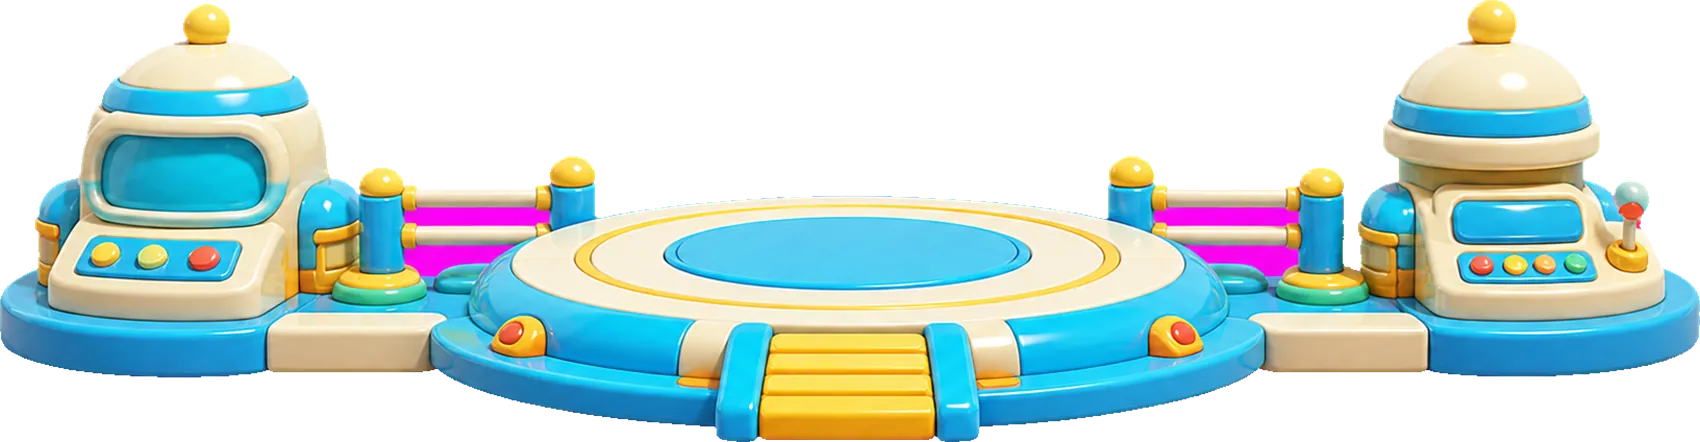
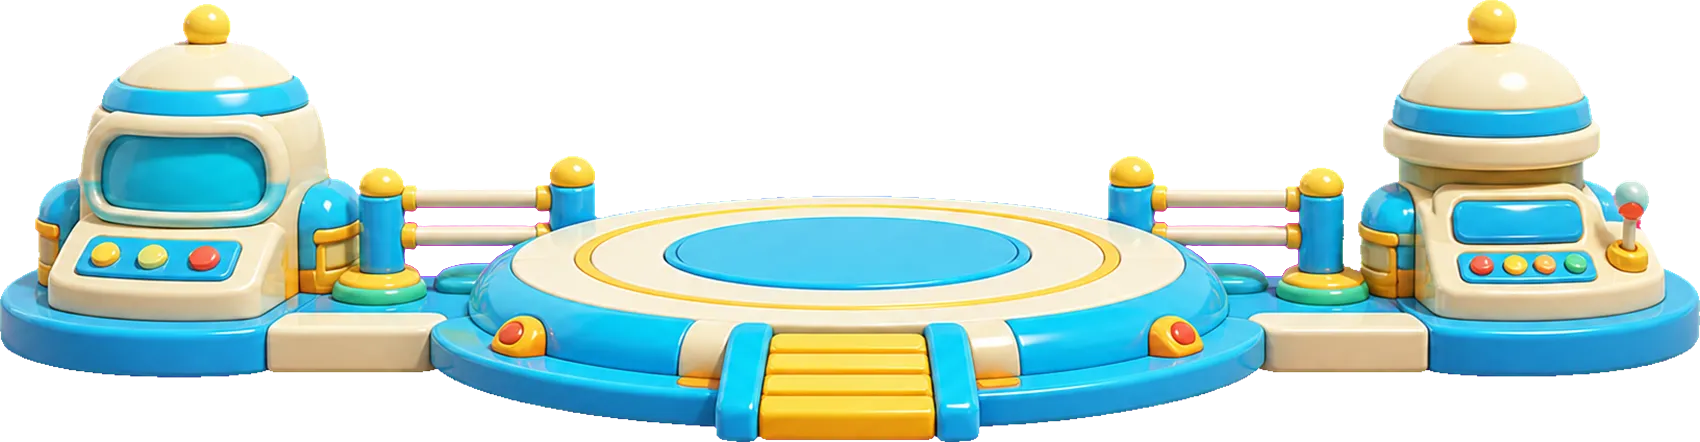
遊戲1 新美術降視覺刺激：生成節奏放慢（掉落物1.3s/景物4.5s＋上限4）、粒子煙火減半、震動搖擺閃爍全面變柔、速度線減淡、天空改粉彩色調、驚喜秀副本減量；修發射台護欄縫洋紅殘留（全域去背）

diff --git a/遊戲1-火箭冒險/index-新美術.html b/遊戲1-火箭冒險/index-新美術.html
@@ -117,7 +117,7 @@
 
 <script type="module">
 /* ================== 基本設定 ================== */
-const ART_VER = 1;
+const ART_VER = 2;
 const canvas = document.getElementById('game');
 const ctx = canvas.getContext('2d');
 let W = 0, H = 0, DPR = Math.min(window.devicePixelRatio || 1, 2);
@@ -344,11 +344,11 @@ function say(key, { gap = 2500, priority = 1 } = {}) {
 /* ================== 高度層設定 ================== */
 /* heightStars（累積新星星）決定高度層：炸彈震掉持有星星，但高度永不倒退 */
 const BANDS = [
-  { name: '糖果城市', icon: '🏙', at: 0,  sky: ['#4fa8e8', '#8fd0f4', '#c9ecfa'], decor: [['FX002', .35], ['FX003', .65]] },
-  { name: '鬆軟雲海', icon: '☁', at: 10, sky: ['#3d97e0', '#7cc4ef', '#e8f6fd'], decor: [['FX001', .6], ['FX002', .25], ['FX003', .15]] },
-  { name: '彩虹高空', icon: '🌈', at: 20, sky: ['#2e7fd6', '#5fb3e8', '#aee4f8'], decor: [['FX004', .3], ['FX001', .7]] },
-  { name: '閃亮外太空', icon: '🪐', at: 30, sky: ['#0d1b5e', '#1c3a94', '#3a63c4'], decor: [['FX007', .5], ['FX005', .5]] },
-  { name: '月球糖果星系', icon: '🌕', at: 40, sky: ['#101347', '#232a7a', '#3f55b5'], decor: [['FX006', .35], ['FX008', .4], ['FX007', .15], ['FX005', .1]] },
+  { name: '糖果城市', icon: '🏙', at: 0,  sky: ['#7ab8e6', '#aad9f2', '#dcf0fa'], decor: [['FX002', .35], ['FX003', .65]] },
+  { name: '鬆軟雲海', icon: '☁', at: 10, sky: ['#7fc0e8', '#abd9f0', '#eef7fc'], decor: [['FX001', .6], ['FX002', .25], ['FX003', .15]] },
+  { name: '彩虹高空', icon: '🌈', at: 20, sky: ['#6fa9dc', '#95c7e9', '#c9e7f6'], decor: [['FX004', .3], ['FX001', .7]] },
+  { name: '閃亮外太空', icon: '🪐', at: 30, sky: ['#28356f', '#3a4f9c', '#5f79c4'], decor: [['FX007', .5], ['FX005', .5]] },
+  { name: '月球糖果星系', icon: '🌕', at: 40, sky: ['#2b2f5e', '#3f478c', '#6270b8'], decor: [['FX006', .35], ['FX008', .4], ['FX007', .15], ['FX005', .1]] },
 ];
 const bandOf = hs => hs >= 40 ? 4 : hs >= 30 ? 3 : hs >= 20 ? 2 : hs >= 10 ? 1 : 0;
 const BAND_SAY = { 1: 's8', 2: 's9', 3: 's10', 4: 's11' };
@@ -538,7 +538,7 @@ function startCountdown() {
     } else {
       el.style.display = 'none';
       state.phase = 'launch';
-      state.t = 0; state.shake = 14;
+      state.t = 0; state.shake = 8;
       sfxLaunch();
       for (let k = 0; k < 6; k++) fxPuff(state.rocketX * W + (Math.random() - 0.5) * VMIN() * 0.3, H * 0.9, VMIN() * (0.12 + Math.random() * 0.1));
     }
@@ -550,7 +550,7 @@ function startCountdown() {
 function rocketH() { return VMIN() * 0.24; }
 function noBombs() { return state.transT > 0 || state.giftShow || state.paradeT > 0 || state.invulnT > 0 || state.spin > 0; }
 function spawnItem(now) {
-  const interval = state.boostLevel > 0.5 ? 450 : 850;
+  const interval = state.boostLevel > 0.5 ? 700 : 1300;
   if (now - lastItemSpawn < interval) return;
   lastItemSpawn = now;
   // 教學：前兩顆星固定出現在火箭附近、左右交替
@@ -578,11 +578,11 @@ function spawnItem(now) {
 function spawnDecor(now) {
   const band = BANDS[state.band];
   const bigOnScreen = decors.filter(d => ['FX006', 'FX007', 'FX008'].includes(d.id)).length;
-  if (now - lastDecorSpawn < 2600) return;
+  if (now - lastDecorSpawn < 4500 || decors.length >= 4) return;
   lastDecorSpawn = now;
   let r = Math.random(), id = band.decor[band.decor.length - 1][0];
   for (const [d, w] of band.decor) { if (r < w) { id = d; break; } r -= w; }
-  if (['FX006', 'FX007', 'FX008'].includes(id) && bigOnScreen >= 2) return;
+  if (['FX006', 'FX007', 'FX008'].includes(id) && bigOnScreen >= 1) return;
   const big = ['FX004', 'FX006', 'FX007', 'FX008'].includes(id);
   const side = Math.random() < 0.5;
   decors.push({
@@ -591,8 +591,8 @@ function spawnDecor(now) {
     y: -0.3,
     h: VMIN() * (big ? 0.34 + Math.random() * 0.14 : 0.10 + Math.random() * 0.07),
     sp: big ? 0.28 + Math.random() * 0.08 : 0.38 + Math.random() * 0.1,
-    drift: (Math.random() - 0.5) * 12,
-    rot: 0, rotSp: (Math.random() - 0.5) * 0.15,
+    drift: (Math.random() - 0.5) * 7,
+    rot: 0, rotSp: (Math.random() - 0.5) * 0.08,
     flip: Math.random() < 0.5,
     alpha: big ? 0.9 : 1,
   });
@@ -612,12 +612,12 @@ function fxAdd(id, fb, x, y, h, o = {}) {
   fxs.push({ id, fb, x, y, h, vx: o.vx || 0, vy: o.vy || 0, rot: o.rot || 0, rotSp: o.rotSp || 0, life: o.life || 1, maxLife: o.life || 1, grow: o.grow || 0, flip: o.flip || false, orbit: o.orbit || null, stick: o.stick || false });
 }
 function fxPuff(x, y, h) { fxAdd('FX101', '💨', x, y, h, { vy: -20, life: 0.9, grow: 0.6, rotSp: (Math.random() - 0.5) * 0.6 }); }
-function fireworks(n = 5) {
+function fireworks(n = 3) {
   for (let k = 0; k < n; k++) {
     setTimeout(() => {
       const x = W * (0.12 + Math.random() * 0.76), y = H * (0.1 + Math.random() * 0.32);
       fxAdd('FX104', '🎆', x, y, VMIN() * (0.16 + Math.random() * 0.14), { life: 1.1, grow: 1.2, rot: Math.random() * 6.28 });
-      burst(x, y, 24);
+      burst(x, y, 14);
       sfxFirework();
     }, k * 220);
   }
@@ -634,18 +634,18 @@ function startGiftShow() {
   if (kind === 'rainbow') {
     fxAdd('FX105', '🌈', rx, ry, VMIN() * 0.26, { life: 3, orbit: { r: R, sp: 2.6, ph: 0 } });
   } else if (kind === 'icecream') {
-    for (let i = 0; i < 6; i++) {
+    for (let i = 0; i < 4; i++) {
       const side = i % 2 ? 0.1 : 0.9;
       fxAdd('FX106', '🍦', W * side + (Math.random() - 0.5) * W * 0.1, H * (0.2 + i * 0.12), VMIN() * 0.12, { life: 3, vy: 30 * (i % 2 ? 1 : -1), rotSp: (Math.random() - 0.5) * 2 });
     }
   } else if (kind === 'puppy') {
     fxAdd('FX107', '🐶', rx, ry, VMIN() * 0.16, { life: 3, orbit: { r: R * 1.1, sp: 3.2, ph: Math.PI } });
   } else if (kind === 'balloon') {
-    for (let i = 0; i < 4; i++) fxAdd('FX002', '🎈', -W * 0.08 - i * W * 0.14, H * (0.25 + (i % 2) * 0.14), VMIN() * (0.13 + Math.random() * 0.05), { life: 4, vx: W * 0.22, vy: Math.sin(i) * 12 });
+    for (let i = 0; i < 3; i++) fxAdd('FX002', '🎈', -W * 0.08 - i * W * 0.14, H * (0.25 + (i % 2) * 0.14), VMIN() * (0.13 + Math.random() * 0.05), { life: 4, vx: W * 0.22, vy: Math.sin(i) * 12 });
   } else if (kind === 'ufo') {
     fxAdd('FX005', '🛸', W * 1.1, H * 0.3, VMIN() * 0.2, { life: 4, vx: -W * 0.2, vy: 14, rotSp: 0.4 });
   } else { // starrain：純表演星星雨，不影響數字
-    for (let i = 0; i < 12; i++) fxAdd('IT001', '⭐', W * Math.random(), -H * 0.1 - Math.random() * H * 0.3, VMIN() * (0.05 + Math.random() * 0.04), { life: 4, vy: H * 0.28, rotSp: (Math.random() - 0.5) });
+    for (let i = 0; i < 7; i++) fxAdd('IT001', '⭐', W * Math.random(), -H * 0.1 - Math.random() * H * 0.3, VMIN() * (0.05 + Math.random() * 0.04), { life: 4, vy: H * 0.28, rotSp: (Math.random() - 0.5) });
   }
 }
 
@@ -653,8 +653,8 @@ function startGiftShow() {
 function bombHit(ix, iy) {
   sfxBoom();
   fxAdd('FX102', '💥', ix, iy, VMIN() * 0.3, { life: 0.7, grow: 1.6 });
-  burst(ix, iy, 22, { color: '#ff8844' });
-  state.shake = 22;
+  burst(ix, iy, 12, { color: '#ff8844' });
+  state.shake = 10;
   state.spin = Math.PI * 6;          // 翻滾三圈
   state.dizzyT = 2.2;
   state.invulnT = 2.0;
@@ -674,7 +674,7 @@ function bombHit(ix, iy) {
 function collectStar(it, ix, iy) {
   state.starsHeld++;
   sfxCollect();
-  burst(ix, iy, 12, { color: '#ffdd44' });
+  burst(ix, iy, 7, { color: '#ffdd44' });
   if (!state.firstCatch) { state.firstCatch = true; say('s4', { gap: 0 }); }
   if (it.noHeight) return;             // 撿回的星星只補持有數
   state.heightStars++;
@@ -684,9 +684,9 @@ function collectStar(it, ix, iy) {
     const nb = bandOf(hs);
     if (nb !== state.band) startBandTransition(nb);
     else if (hs === 50) startParade();
-    else { sfxMilestone(); fireworks(4); say('s13', { gap: 5000 }); }
+    else { sfxMilestone(); fireworks(2); say('s13', { gap: 5000 }); }
     // 換色：第 20、40，之後每 20 循環
-    if (hs % 20 === 0) { sfxUpgrade(); state.shake = Math.max(state.shake, 8); }
+    if (hs % 20 === 0) { sfxUpgrade(); state.shake = Math.max(state.shake, 5); }
   }
 }
 function startBandTransition(nb) {
@@ -697,15 +697,15 @@ function startBandTransition(nb) {
   state.transT = 3.2;
   state.hiccupDone = false;
   for (let i = items.length - 1; i >= 0; i--) if (items[i].type === 'bomb') items.splice(i, 1);
-  sfxMilestone(); fireworks(5);
+  sfxMilestone(); fireworks(3);
   say(BAND_SAY[nb] || 's13', { gap: 0, priority: 2 });
 }
 function startParade() {
   state.paradeT = 6;
   for (let i = items.length - 1; i >= 0; i--) if (items[i].type === 'bomb') items.splice(i, 1);
-  sfxMilestone(); fireworks(8);
+  sfxMilestone(); fireworks(4);
   say('s12', { gap: 0, priority: 2 });
-  for (let i = 0; i < 10; i++) fxAdd('IT001', '⭐', W * Math.random(), -H * (0.1 + Math.random() * 0.4), VMIN() * (0.05 + Math.random() * 0.04), { life: 5, vy: H * 0.26, rotSp: (Math.random() - 0.5) });
+  for (let i = 0; i < 6; i++) fxAdd('IT001', '⭐', W * Math.random(), -H * (0.1 + Math.random() * 0.4), VMIN() * (0.05 + Math.random() * 0.04), { life: 5, vy: H * 0.26, rotSp: (Math.random() - 0.5) });
   for (const [i, id] of [['FX006', '🌕'], ['FX008', '🍭'], ['FX007', '🪐'], ['FX005', '🛸']].entries()) {
     fxAdd(id[0], id[1], (i % 2 ? W * 1.12 : -W * 0.12), H * (0.15 + i * 0.12), VMIN() * 0.2, { life: 5.5, vx: (i % 2 ? -1 : 1) * W * 0.16 });
   }
@@ -822,7 +822,7 @@ function update(dt, now) {
   for (let i = items.length - 1; i >= 0; i--) {
     const it = items[i];
     it.y += fall * dt;
-    const ix = it.x * W + Math.sin(state.t * 2 + it.wob) * 14;
+    const ix = it.x * W + Math.sin(state.t * 2 + it.wob) * 8;
     const iy = it.y * H;
     const dx = ix - rx, dy = iy - ry;
     if (!state.paused && Math.hypot(dx, dy) < catchR) {
@@ -834,7 +834,7 @@ function update(dt, now) {
         continue;
       }
       items.splice(i, 1);
-      if (it.type === 'gift') { sfxGift(); burst(ix, iy, 10, { emoji: ['🌈', '🦄', '🍭', '🎈', '🍦', '⚽'] }); startGiftShow(); }
+      if (it.type === 'gift') { sfxGift(); burst(ix, iy, 6, { emoji: ['🌈', '🦄', '🍭', '🎈', '🍦', '⚽'] }); startGiftShow(); }
       else collectStar(it, ix, iy);
     } else if (it.y > 1.15) {
       items.splice(i, 1);
@@ -928,7 +928,7 @@ function draw(now) {
   // 太空小星點（外太空以上）
   if (state.band >= 3) {
     for (const s of bgStars) {
-      ctx.globalAlpha = 0.4 + 0.6 * Math.abs(Math.sin(state.t * 2 + s.tw));
+      ctx.globalAlpha = 0.25 + 0.3 * Math.abs(Math.sin(state.t * 1.2 + s.tw));
       ctx.fillStyle = '#fff';
       const len = state.boostLevel * 18;
       if (len > 2) ctx.fillRect(s.x * W, s.y * H, s.s, s.s + len);
@@ -962,10 +962,10 @@ function draw(now) {
 
   // 掉落物
   for (const it of items) {
-    const ix = it.x * W + Math.sin(state.t * 2 + it.wob) * 14;
+    const ix = it.x * W + Math.sin(state.t * 2 + it.wob) * 8;
     const iy = it.y * H;
     if (it.type === 'bomb') {
-      ctx.globalAlpha = 0.25 + 0.15 * Math.sin(state.t * 8);
+      ctx.globalAlpha = 0.20 + 0.10 * Math.sin(state.t * 4);
       ctx.fillStyle = '#ff3333';
       ctx.beginPath(); ctx.arc(ix, iy, VMIN() * 0.085, 0, Math.PI * 2); ctx.fill();
       ctx.globalAlpha = 1;
@@ -973,7 +973,7 @@ function draw(now) {
     const hh = VMIN() * (it.type === 'star' ? 0.085 : 0.105);
     sprite(it.type === 'gift' ? 'IT002' : it.type === 'bomb' ? 'OB001' : 'IT001',
       it.type === 'gift' ? '🎁' : it.type === 'bomb' ? '💣' : '⭐', ix, iy, hh,
-      { rot: Math.sin(state.t * 3 + it.wob) * 0.15 });
+      { rot: Math.sin(state.t * 2 + it.wob) * 0.07 });
   }
 
   // 火箭
@@ -993,9 +993,9 @@ function draw(now) {
 
   // 衝刺速度線
   if (state.boostLevel > 0.35) {
-    ctx.globalAlpha = (state.boostLevel - 0.35) * 0.7;
+    ctx.globalAlpha = (state.boostLevel - 0.35) * 0.4;
     ctx.strokeStyle = '#ffffff'; ctx.lineWidth = 3; ctx.lineCap = 'round';
-    for (let i = 0; i < 7; i++) {
+    for (let i = 0; i < 4; i++) {
       const lx = ((i * 0.147 + state.t * 0.9) % 1) * W;
       const ly = ((i * 0.31 + state.t * 2.2) % 1) * H;
       ctx.beginPath(); ctx.moveTo(lx, ly); ctx.lineTo(lx, ly + VMIN() * 0.09 * state.boostLevel); ctx.stroke();
@@ -1021,7 +1021,7 @@ function draw(now) {
       const iy = H * 0.72 - b * ih * 1.5;
       const active = state.band === b, passed = state.band > b;
       ctx.globalAlpha = active ? 1 : passed ? 0.75 : 0.28;
-      const sc = active ? 1.35 + Math.sin(state.t * 4) * 0.06 : 1;
+      const sc = active ? 1.22 + Math.sin(state.t * 2) * 0.03 : 1;
       emo(BANDS[b].icon, ix, iy, ih * sc);
     }
     ctx.globalAlpha = 1;
@@ -1037,7 +1037,7 @@ function draw(now) {
     }
     // 舉手示範（第 2 顆星後短暫顯示）
     if (state.heightStars === 2 && !state.boost) {
-      ctx.globalAlpha = 0.5 + 0.5 * Math.sin(state.t * 4);
+      ctx.globalAlpha = 0.55 + 0.3 * Math.sin(state.t * 2.5);
       emo('🙌', W / 2, H * 0.2, VMIN() * 0.12);
       ctx.globalAlpha = 1;
     }

diff --git a/index.html b/index.html
@@ -46,7 +46,7 @@
      新增遊戲 = 在這裡加一行；ver 是快取版本號，更新該遊戲就 +1。 */
   const GAMES = [
     { folder: '遊戲1-火箭冒險',     icon: '🚀', name: '火箭冒險',     ver: 15, release: '2026-06-05' },
-    { folder: '遊戲1-火箭冒險',     file: 'index-新美術.html', icon: '<img src="遊戲1-火箭冒險/pic/opt/CH001.webp" alt="" style="height:64px;width:auto">', name: '火箭冒險（新美術）', ver: 1, release: '2026-08-24' },
+    { folder: '遊戲1-火箭冒險',     file: 'index-新美術.html', icon: '<img src="遊戲1-火箭冒險/pic/opt/CH001.webp" alt="" style="height:64px;width:auto">', name: '火箭冒險（新美術）', ver: 2, release: '2026-08-25' },
     { folder: '遊戲2-水泥車大作戰', icon: '🚛', name: '水泥車大作戰', ver: 6,  release: '2026-06-12' },
     { folder: '遊戲3-挖土機挖挖樂', icon: '🚜', name: '挖土機挖挖樂', ver: 2,  release: '2026-06-19' },
     { folder: '遊戲3-挖土機挖挖樂', file: 'index-新美術.html', icon: '<img src="遊戲3-挖土機挖挖樂/pic/opt/VH001.webp" alt="" style="height:84px;width:auto">', name: '挖土機挖挖樂（新美術）', ver: 6, release: '2026-08-23' },
